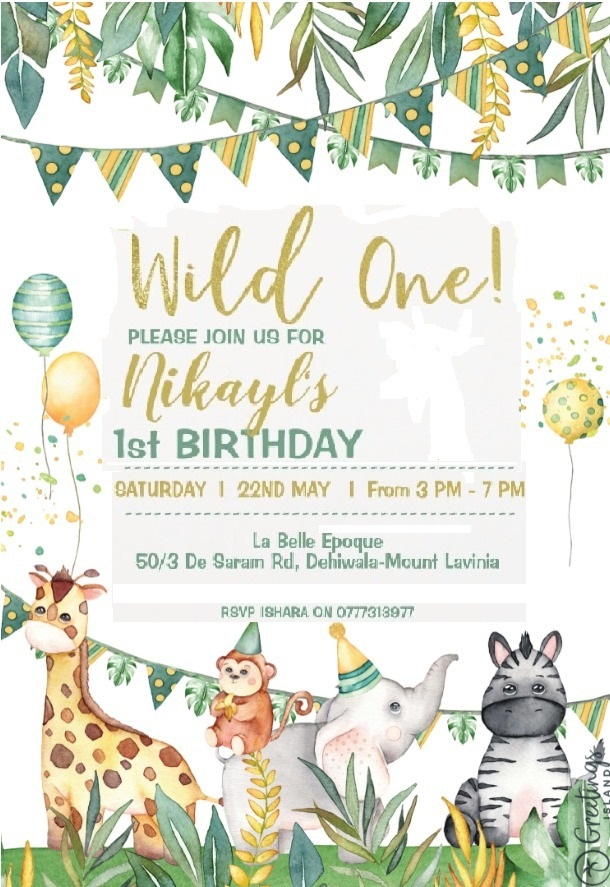
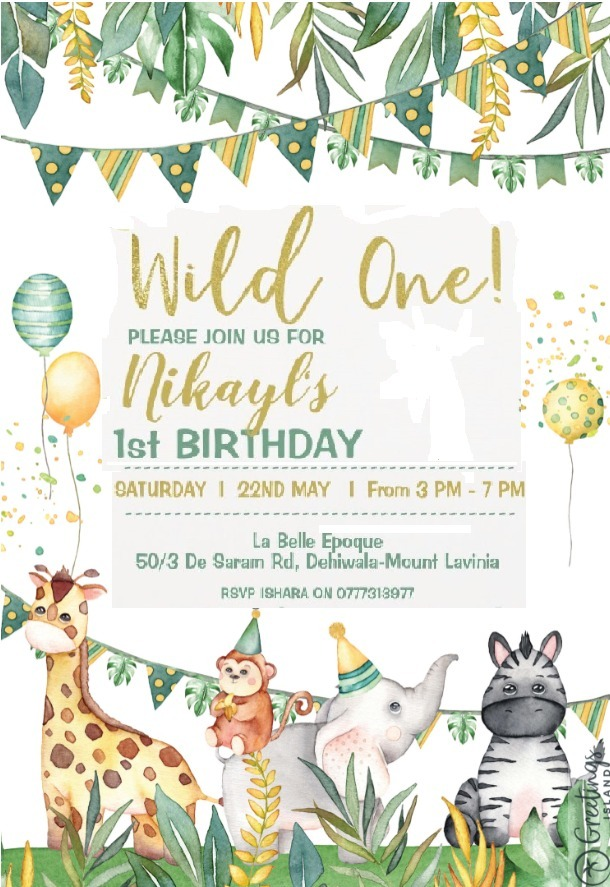
sample with goole map link modifed

Changed region(s): [[0.3426, 0.6392, 0.6852, 0.7001]]

diff --git a/index.html b/index.html
@@ -9,11 +9,11 @@
 	<style type="text/css">
 		.container { position: relative; }
 		.container img { display: block; }
-		.container .mapicon { position: absolute; bottom:284; left:250; }
+		.container .mapicon { position: absolute; bottom:316; left:-33; }
 		.material-icons.md-dark { color: rgba(255, 0, 0, 0.80); font-size: large;}
 		.material-icons.md-dark:hover { color: rgba(255, 0, 0, 0.30); }
-		.mapicon { color: #a78f64;background-color: Transparent;background-repeat:no-repeat;border: none;cursor:pointer;overflow: hidden;font-size: large; border-radius: 5px;}      
-		.mapicon:hover { background-color: #79BB76 ; color: white}
+		.mapicon { color: #a78f64;background-color: Transparent;background-repeat:no-repeat;border: none;cursor:pointer;overflow: hidden;font-size: large; border-radius: 5px; padding: 24px 264px;}      
+		.mapicon:hover { background-color: #79BB7610 ; color: white}
 
 }
     </style>
@@ -21,7 +21,7 @@
 	
 	<div class="container">
 		<img src="baby_1st.jpg" alt="Bday card">
-		<button class="mapicon" onclick="myFunction()"><span class="material-icons md-dark">place</span>Click me!</button>
+		<button class="mapicon" onclick="myFunction()"><span class="material-icons md-dark">place</span></button>
 	</div>
 <script>
 function myFunction() {
